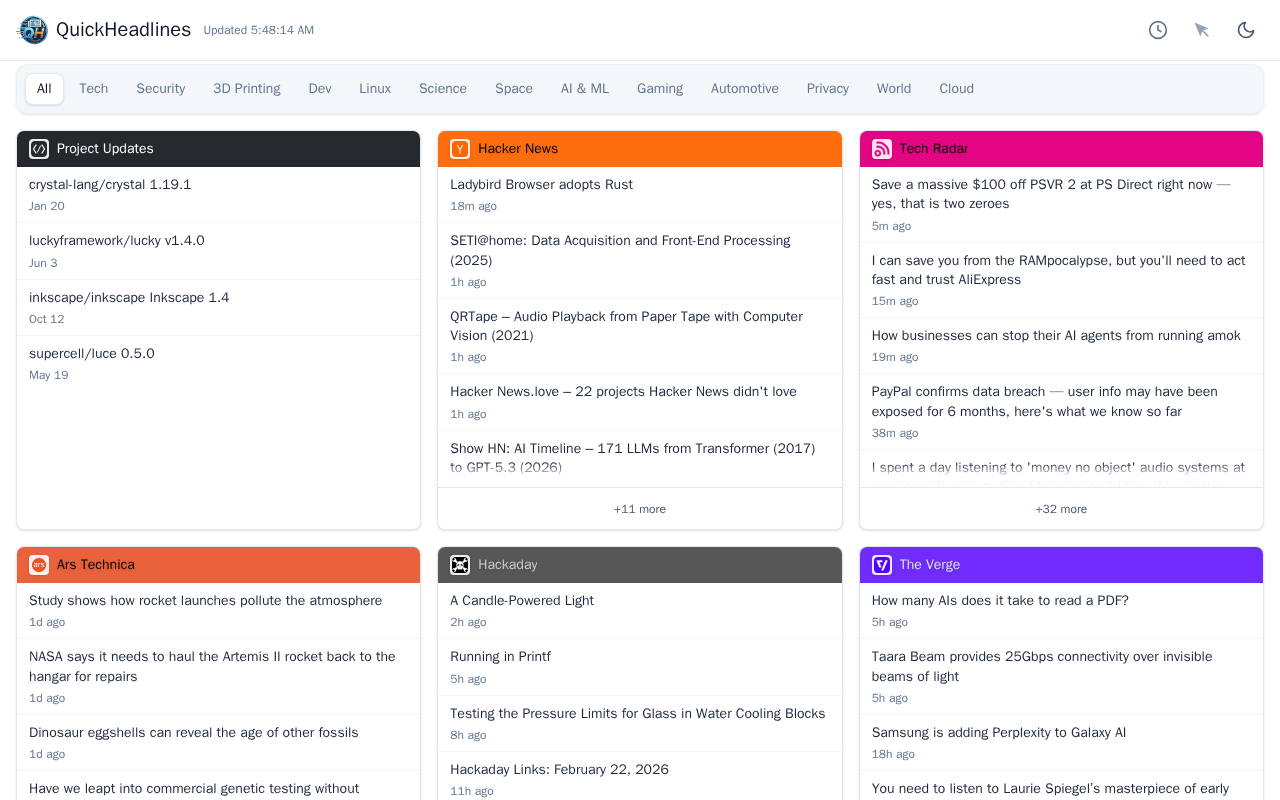
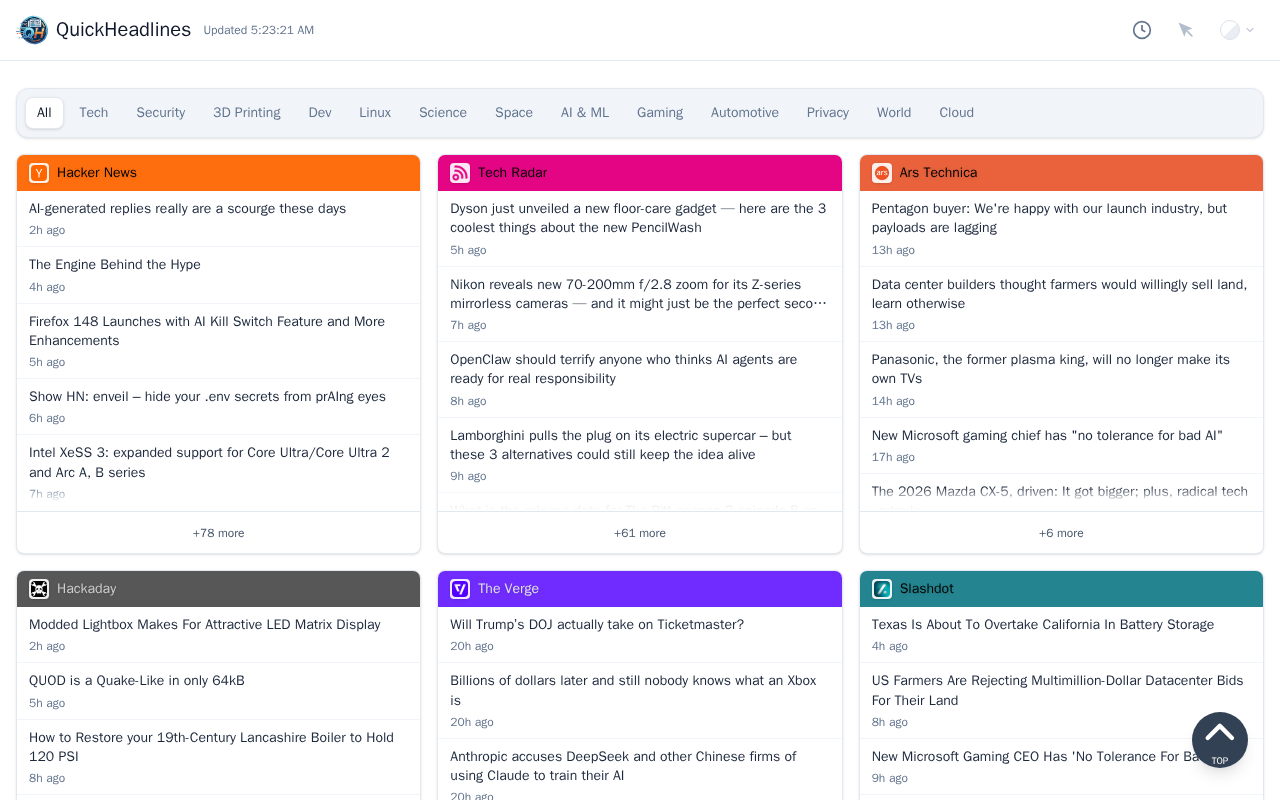
Release 0.5.2: 11 new themes, border beam animation, theme picker
- Add 11 new themes (Retro 80s, Matrix, Ocean, Sunset, Hot Dog, Dracula, Nord, Cyberpunk, Forest, Coffee, Vaporwave)
- Add border beam animation for Cyberpunk, Matrix, Vaporwave themes
- Add theme picker modal with visual previews
- Add scroll-to-top button
- Update screenshots and create themes.md documentation
- Update version to 0.5.2

diff --git a/themes.md b/themes.md
@@ -1,0 +1,87 @@
+# Themes
+
+QuickHeadlines features **13 themes** to customize your reading experience. Choose the theme that suits your mood!
+
+## Default Themes
+
+### Light
+
+Clean, minimal light theme for daytime reading.
+
+![Light Theme](../ss/qh-light-ss.png)
+
+### Dark
+
+Easy on the eyes for nighttime reading.
+
+![Dark Theme](../ss/qh-dark-ss.png)
+
+---
+
+## Custom Themes
+
+### Retro 80s
+
+Neon pink and cyan with a synthwave aesthetic.
+
+![Retro 80s Theme](../ss/qh-retro80s-ss.png)
+
+### Matrix
+
+Digital green rain inspired by the classic film.
+
+![Matrix Theme](../ss/qh-matrix-ss.png)
+
+### Ocean
+
+Deep blue waves with cyan and pink accents.
+
+![Ocean Theme](../ss/qh-ocean-ss.png)
+
+### Sunset
+
+Warm amber and orange tones for a cozy feel.
+
+![Sunset Theme](../ss/qh-sunset-ss.png)
+
+### Hot Dog Stand
+
+Nostalgic Windows 3.1 vibes - intentionally chaotic!
+
+![Hot Dog Theme](../ss/qh-hotdog-ss.png)
+
+### Dracula
+
+Popular purple dark theme for developers.
+
+![Dracula Theme](../ss/qh-dracula-ss.png)
+
+### Nord
+
+Arctic bluish-gray - clean and cool.
+
+![Nord Theme](../ss/qh-nord-ss.png)
+
+### Cyberpunk
+
+High-contrast neon magenta and cyan.
+
+![Cyberpunk Theme](../ss/qh-cyberpunk-ss.png)
+
+### Forest
+
+Earthy greens for a natural feel.
+
+![Forest Theme](../ss/qh-forest-ss.png)
+
+### Coffee
+
+Warm browns for a cozy reading experience.
+
+![Coffee Theme](../ss/qh-coffee-ss.png)
+
+### Vaporwave
+
+Aesthetic pink and teal with a retro-future vibe.
+
+![Vaporwave Theme](../ss/qh-vaporwave-ss.png)

diff --git a/CHANGELOG.md b/CHANGELOG.md
@@ -1,5 +1,23 @@
 # Changelog
 
+## [0.5.2] - 2026-02-24
+
+### Added
+
+- **11 New Themes**: Retro 80s, Matrix, Ocean, Sunset, Hot Dog Stand, Dracula, Nord, Cyberpunk, Forest, Coffee, Vaporwave (13 themes total)
+- **Border Beam Animation**: Animated rotating gradient border on feed cards for Cyberpunk, Matrix, and Vaporwave themes
+- **Theme Picker**: New modal-based theme selector with 2-column grid layout showing visual theme previews (replaces old sun/moon toggle)
+- **Scroll-to-Top Button**: Floating arrow button to quickly navigate back to top of feed lists
+- **Theme Preview**: Visual gradient preview in theme selector showing theme colors
+
+### Changed
+
+- **Theme Cursor Trail**: Updated trail colors to match each theme's accent color
+
+### Fixed
+
+- **Theme Persistence**: Theme selection now properly persists across page refreshes
+
 ## [0.5.1] - 2026-02-23
 
 ### Added

diff --git a/README.md b/README.md
@@ -35,6 +35,8 @@ Desktop (Dark Mode)           |  Desktop (Light Mode)
 :-------------------------:|:-------------------------:
 ![](ss/qh-desktop-dm-ss.png)  |  ![](ss/qh-desktop-lm-ss.png)
 
+**13 Themes Available**: QuickHeadlines now includes 11 custom themes beyond Light and Dark. [View all themes →](./themes.md)
+
 ---
 
 ### Timeline View
